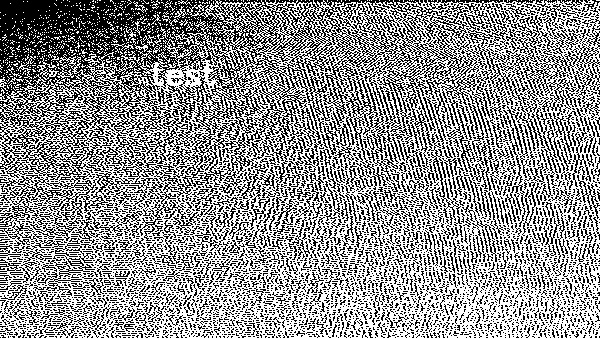
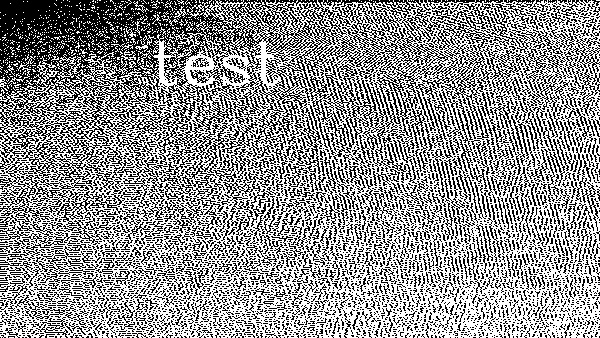
Improve dct image watermark location

diff --git a/src/main/java/me/ww23/image/BlindWatermark.java b/src/main/java/me/ww23/image/BlindWatermark.java
@@ -16,13 +16,21 @@
 
 package me.ww23.image;
 
-import me.ww23.image.coder.*;
+import me.ww23.image.dencoder.*;
 import me.ww23.image.converter.Converter;
 import me.ww23.image.converter.DctConverter;
 import me.ww23.image.converter.DftConverter;
 
 
+/**
+ * @author ww23
+ */
 public class BlindWatermark {
+
+    private static final String FOURIER = "f";
+    private static final String COSINE = "c";
+    private static final String IMAGE = "i";
+    private static final String TEXT = "t";
 
     public static void main(String[] args) {
 
@@ -30,19 +38,12 @@ public class BlindWatermark {
             help();
         }
 
-        boolean isImage = false;
         Converter converter = null;
         String option = args[1].substring(1);
 
-        if (option.contains("i")) {
-            isImage = true;
-        } else if (!option.contains("t")) {
-            help();
-        }
-
-        if (option.contains("f")) {
+        if (option.contains(FOURIER)) {
             converter = new DftConverter();
-        } else if (option.contains("c")) {
+        } else if (option.contains(COSINE)) {
             converter = new DctConverter();
         } else {
             help();
@@ -50,12 +51,15 @@ public class BlindWatermark {
 
         switch (args[0]) {
             case "encode":
-                Encoder encoder;
-                if (isImage) {
+                Encoder encoder = null;
+                if (option.contains(IMAGE)) {
                     encoder = new ImageEncoder(converter);
-                } else {
+                } else if (option.contains(TEXT)) {
                     encoder = new TextEncoder(converter);
+                } else {
+                    help();
                 }
+                assert encoder != null;
                 encoder.encode(args[2], args[3], args[4]);
                 break;
             case "decode":
@@ -72,13 +76,17 @@ public class BlindWatermark {
                 "   commands: \n" +
                 "       encode <option> <input> <watermark> <output>\n" +
                 "       decode <option> <input> <output>\n" +
-                "   options: \n" +
+                "   encode options: \n" +
                 "       -c discrete cosine transform\n" +
                 "       -f discrete fourier transform\n" +
                 "       -i image watermark\n" +
                 "       -t text  watermark\n" +
+                "   decode options: \n" +
+                "       -c discrete cosine transform\n" +
+                "       -f discrete fourier transform\n" +
                 "   example: \n" +
-                "       encode -ft foo.png test bar.png"
+                "       encode -ft foo.png test bar.png" +
+                "       decode -f  foo.png bar.png"
         );
         System.exit(-1);
     }

diff --git a/src/main/java/me/ww23/image/converter/DctConverter.java b/src/main/java/me/ww23/image/converter/DctConverter.java
@@ -30,8 +30,13 @@ import static org.bytedeco.javacpp.opencv_core.addWeighted;
 import static org.bytedeco.javacpp.opencv_core.inRange;
 import static org.bytedeco.javacpp.opencv_core.normalize;
 
-import static org.bytedeco.javacpp.opencv_imgproc.*;
+import static org.bytedeco.javacpp.opencv_imgproc.putText;
+import static org.bytedeco.javacpp.opencv_imgproc.CV_FONT_HERSHEY_COMPLEX;
+import static org.bytedeco.javacpp.opencv_imgproc.COLOR_RGB2HSV;
 
+/**
+ * @author ww23
+ */
 public class DctConverter implements Converter {
 
     @Override
@@ -58,7 +63,7 @@ public class DctConverter implements Converter {
     public void addTextWatermark(Mat com, String watermark) {
         putText(com, watermark,
                 new Point(com.size().width() >> 2, com.size().height() >> 2),
-                CV_FONT_HERSHEY_COMPLEX, 1.0,
+                CV_FONT_HERSHEY_COMPLEX, 2.0,
                 new Scalar(2, 2, 2, 0), 2, 8, false);
         //TODO: Support Non-ASCII
 //        byte[] temp = new byte[com.rows() * com.cols() * (int) com.elemSize()];
@@ -80,8 +85,8 @@ public class DctConverter implements Converter {
         i2.copyTo(watermark, mask);
         watermark.convertTo(watermark, CV_32F);
         copyMakeBorder(watermark, watermark,
-                com.rows() / 8, com.rows() - watermark.rows() - com.rows() / 8,
-                com.cols() / 8, com.cols() - watermark.cols() - com.cols() / 8,
+                (com.rows() - watermark.rows()) >> 1, (com.rows() - watermark.rows()) >> 1,
+                (com.cols() - watermark.cols()) >> 1, (com.cols() - watermark.cols()) >> 1,
                 BORDER_CONSTANT, Scalar.all(0));
         addWeighted(watermark, 0.03, com, 1, 0.0, com);
     }

diff --git a/src/main/java/me/ww23/image/dencoder/ImageEncoder.java b/src/main/java/me/ww23/image/dencoder/ImageEncoder.java
@@ -14,31 +14,26 @@
  * limitations under the License.
  */
 
-package me.ww23.image.coder;
+package me.ww23.image.dencoder;
 
 import me.ww23.image.converter.Converter;
-import me.ww23.image.util.Supporter;
+
+import me.ww23.image.util.Utils;
+import org.bytedeco.javacpp.opencv_core.Mat;
 
 import static org.bytedeco.javacpp.opencv_core.CV_8U;
-import static org.bytedeco.javacpp.opencv_imgcodecs.imwrite;
 
-public class Decoder {
+/**
+ * @author ww23
+ */
+public class ImageEncoder extends Encoder {
 
-    private Converter converter;
-
-    public Decoder(Converter converter) {
-        this.converter = converter;
+    public ImageEncoder(Converter converter) {
+        super(converter);
     }
 
-    public Converter getConverter() {
-        return converter;
-    }
-
-    public void setConverter(Converter converter) {
-        this.converter = converter;
-    }
-
-    public void decode(String image, String output) {
-        imwrite(output, this.converter.showWatermark(this.converter.start(Supporter.read(image, CV_8U))));
+    @Override
+    public void addWatermark(Mat com, String watermark) {
+        this.converter.addImageWatermark(com, Utils.read(watermark, CV_8U));
     }
 }

diff --git a/src/main/java/me/ww23/image/dencoder/Decoder.java b/src/main/java/me/ww23/image/dencoder/Decoder.java
@@ -14,19 +14,34 @@
  * limitations under the License.
  */
 
-package me.ww23.image.coder;
+package me.ww23.image.dencoder;
 
 import me.ww23.image.converter.Converter;
-import org.bytedeco.javacpp.opencv_core;
+import me.ww23.image.util.Utils;
 
-public class TextEncoder extends Encoder {
+import static org.bytedeco.javacpp.opencv_core.CV_8U;
+import static org.bytedeco.javacpp.opencv_imgcodecs.imwrite;
 
-    public TextEncoder(Converter converter) {
-        super(converter);
+/**
+ * @author ww23
+ */
+public class Decoder {
+
+    private Converter converter;
+
+    public Decoder(Converter converter) {
+        this.converter = converter;
     }
 
-    @Override
-    public void addWatermark(opencv_core.Mat com, String watermark) {
-        this.converter.addTextWatermark(com, watermark);
+    public Converter getConverter() {
+        return converter;
+    }
+
+    public void setConverter(Converter converter) {
+        this.converter = converter;
+    }
+
+    public void decode(String image, String output) {
+        imwrite(output, this.converter.showWatermark(this.converter.start(Utils.read(image, CV_8U))));
     }
 }

diff --git a/src/main/java/me/ww23/image/converter/DftConverter.java b/src/main/java/me/ww23/image/converter/DftConverter.java
@@ -16,8 +16,6 @@
 
 package me.ww23.image.converter;
 
-import me.ww23.image.util.Supporter;
-
 import static org.bytedeco.javacpp.opencv_core.CV_8UC3;
 import static org.bytedeco.javacpp.opencv_core.CV_8UC1;
 import static org.bytedeco.javacpp.opencv_core.CV_32F;
@@ -39,12 +37,14 @@ import static org.bytedeco.javacpp.opencv_core.addWeighted;
 import static org.bytedeco.javacpp.opencv_core.magnitude;
 import static org.bytedeco.javacpp.opencv_core.add;
 import static org.bytedeco.javacpp.opencv_core.log;
-import static org.bytedeco.javacpp.opencv_core.inRange;
 
 import static org.bytedeco.javacpp.opencv_imgproc.CV_FONT_HERSHEY_COMPLEX;
 import static org.bytedeco.javacpp.opencv_imgproc.putText;
 
 
+/**
+ * @author ww23
+ */
 public class DftConverter implements Converter {
 
     @Override
@@ -101,7 +101,6 @@ public class DftConverter implements Converter {
         addWeighted(watermark, 8, com, 1, 0.0, com);
 
         split(com, planes);
-        Supporter.showMat(planes.get(0));
     }
 
     @Override

diff --git a/src/test/java/me/ww23/image/BlindWatermarkTest.java b/src/test/java/me/ww23/image/BlindWatermarkTest.java
@@ -16,14 +16,14 @@
 
 package me.ww23.image;
 
-import me.ww23.image.coder.Decoder;
-import me.ww23.image.coder.Encoder;
-import me.ww23.image.coder.ImageEncoder;
-import me.ww23.image.coder.TextEncoder;
+import me.ww23.image.dencoder.Decoder;
+import me.ww23.image.dencoder.Encoder;
+import me.ww23.image.dencoder.ImageEncoder;
+import me.ww23.image.dencoder.TextEncoder;
 import me.ww23.image.converter.Converter;
 import me.ww23.image.converter.DctConverter;
 import me.ww23.image.converter.DftConverter;
-import me.ww23.image.util.Supporter;
+import me.ww23.image.util.Utils;
 import org.bytedeco.javacpp.opencv_core;
 import org.junit.jupiter.api.Test;
 
@@ -59,7 +59,7 @@ class BlindWatermarkTest {
 
     @Test
     void speedGray() {
-        opencv_core.Mat src = Supporter.read("image/gakki-src.png", CV_8U);
+        opencv_core.Mat src = Utils.read("image/gakki-src.png", CV_8U);
         converterDct.addTextWatermark(converterDct.start(src), "test");
         converterDct.inverse(src);
     }

diff --git a/src/main/java/me/ww23/image/dencoder/TextEncoder.java b/src/main/java/me/ww23/image/dencoder/TextEncoder.java
@@ -14,23 +14,22 @@
  * limitations under the License.
  */
 
-package me.ww23.image.coder;
+package me.ww23.image.dencoder;
 
 import me.ww23.image.converter.Converter;
+import org.bytedeco.javacpp.opencv_core;
 
-import me.ww23.image.util.Supporter;
-import org.bytedeco.javacpp.opencv_core.Mat;
+/**
+ * @author ww23
+ */
+public class TextEncoder extends Encoder {
 
-import static org.bytedeco.javacpp.opencv_core.CV_8U;
-
-public class ImageEncoder extends Encoder {
-
-    public ImageEncoder(Converter converter) {
+    public TextEncoder(Converter converter) {
         super(converter);
     }
 
     @Override
-    public void addWatermark(Mat com, String watermark) {
-        this.converter.addImageWatermark(com, Supporter.read(watermark, CV_8U));
+    public void addWatermark(opencv_core.Mat com, String watermark) {
+        this.converter.addTextWatermark(com, watermark);
     }
 }

diff --git a/src/main/java/me/ww23/image/dencoder/Encoder.java b/src/main/java/me/ww23/image/dencoder/Encoder.java
@@ -14,14 +14,17 @@
  * limitations under the License.
  */
 
-package me.ww23.image.coder;
+package me.ww23.image.dencoder;
 
 import me.ww23.image.converter.Converter;
-import me.ww23.image.util.Supporter;
+import me.ww23.image.util.Utils;
 
 import static org.bytedeco.javacpp.opencv_core.*;
 import static org.bytedeco.javacpp.opencv_imgcodecs.imwrite;
 
+/**
+ * @author ww23
+ */
 public abstract class Encoder {
 
     Converter converter;
@@ -39,7 +42,7 @@ public abstract class Encoder {
     }
 
     public void encode(String image, String watermark, String output) {
-        Mat src = Supporter.read(image, CV_8S);
+        Mat src = Utils.read(image, CV_8S);
 
         MatVector color = new MatVector(3);
         split(src, color);

diff --git a/src/main/java/me/ww23/image/util/Utils.java b/src/main/java/me/ww23/image/util/Utils.java
@@ -26,7 +26,10 @@ import static org.bytedeco.javacpp.opencv_core.getOptimalDFTSize;
 
 import static org.bytedeco.javacpp.opencv_imgcodecs.imread;
 
-public class Supporter {
+/**
+ * @author ww23
+ */
+public class Utils {
 
     public static Mat read(String image, int type) {
         Mat src = imread(image, type);
@@ -38,7 +41,7 @@ public class Supporter {
     }
 
     public static void showMat(Mat mat) {
-        opencv_highgui.imshow(Supporter.class.toString(), mat);
+        opencv_highgui.imshow(Utils.class.toString(), mat);
         opencv_highgui.waitKey(-1);
     }
 

diff --git a/src/main/java/me/ww23/image/converter/Converter.java b/src/main/java/me/ww23/image/converter/Converter.java
@@ -18,6 +18,9 @@ package me.ww23.image.converter;
 
 import static org.bytedeco.javacpp.opencv_core.Mat;
 
+/**
+ * @author ww23
+ */
 public interface Converter {
     Mat start(Mat src);
     void inverse(Mat com);
